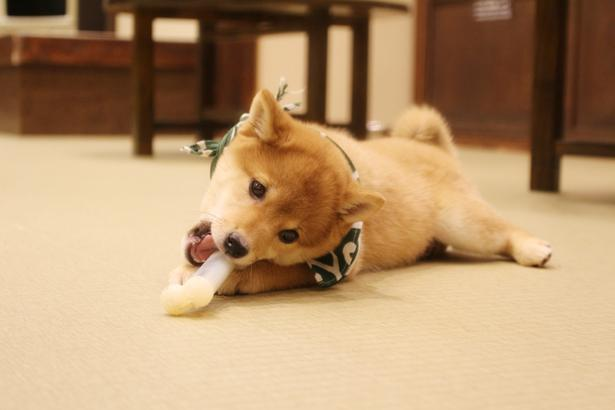
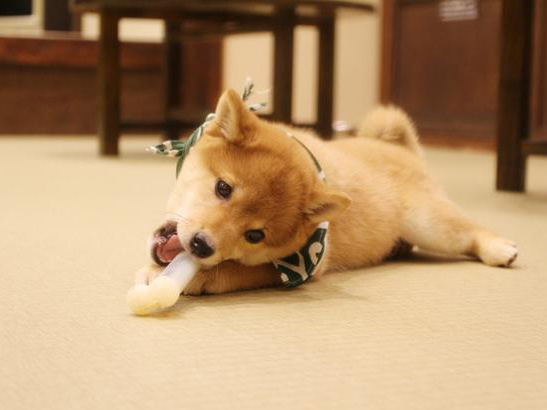
main

diff --git a/index.html b/index.html
@@ -55,7 +55,7 @@
   </header>
   <div class="pictures-wrapper">
     <div class="slider">
-      <img src="pictures/cafe-image.jpg"  alt="">
+      <img src="pictures/比率補正後/4x3_cafe-image.jpg"  alt="">
       <img src="pictures/cafe-image2.jpeg" alt="">
       <img src="pictures/cafe-image3.jpg" alt="">
   	  <img src="pictures/cafe-image4.jpeg" alt="">
